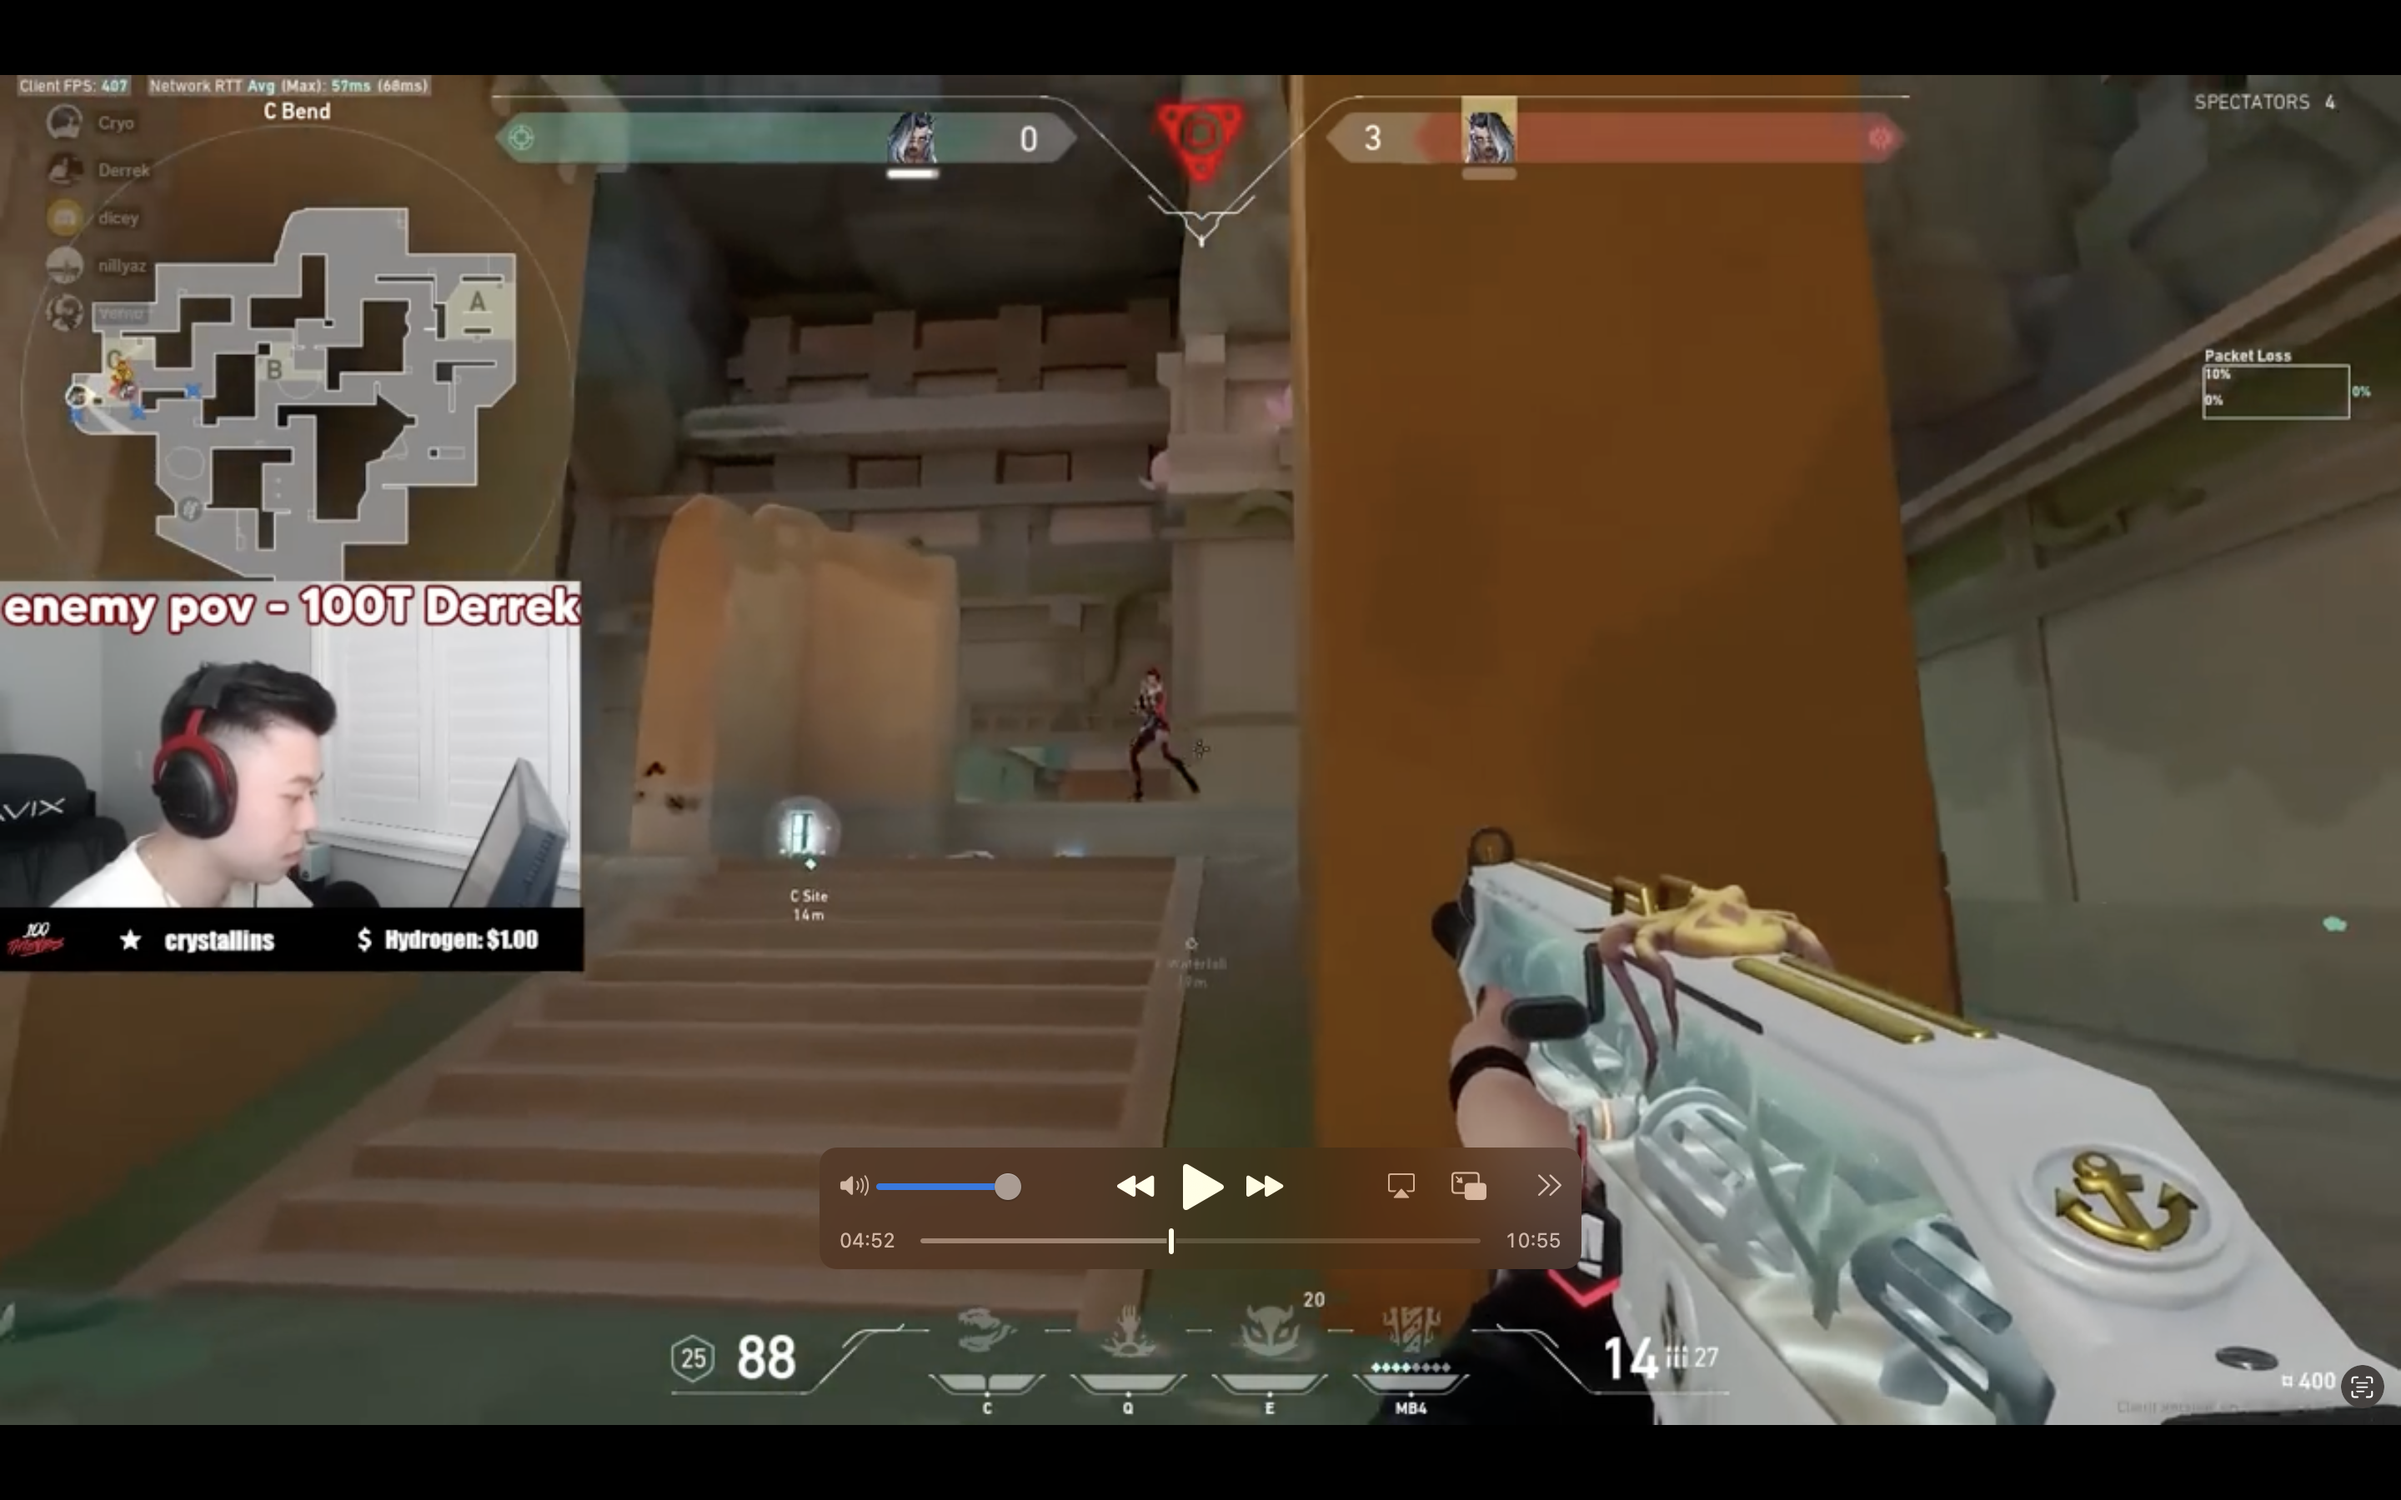
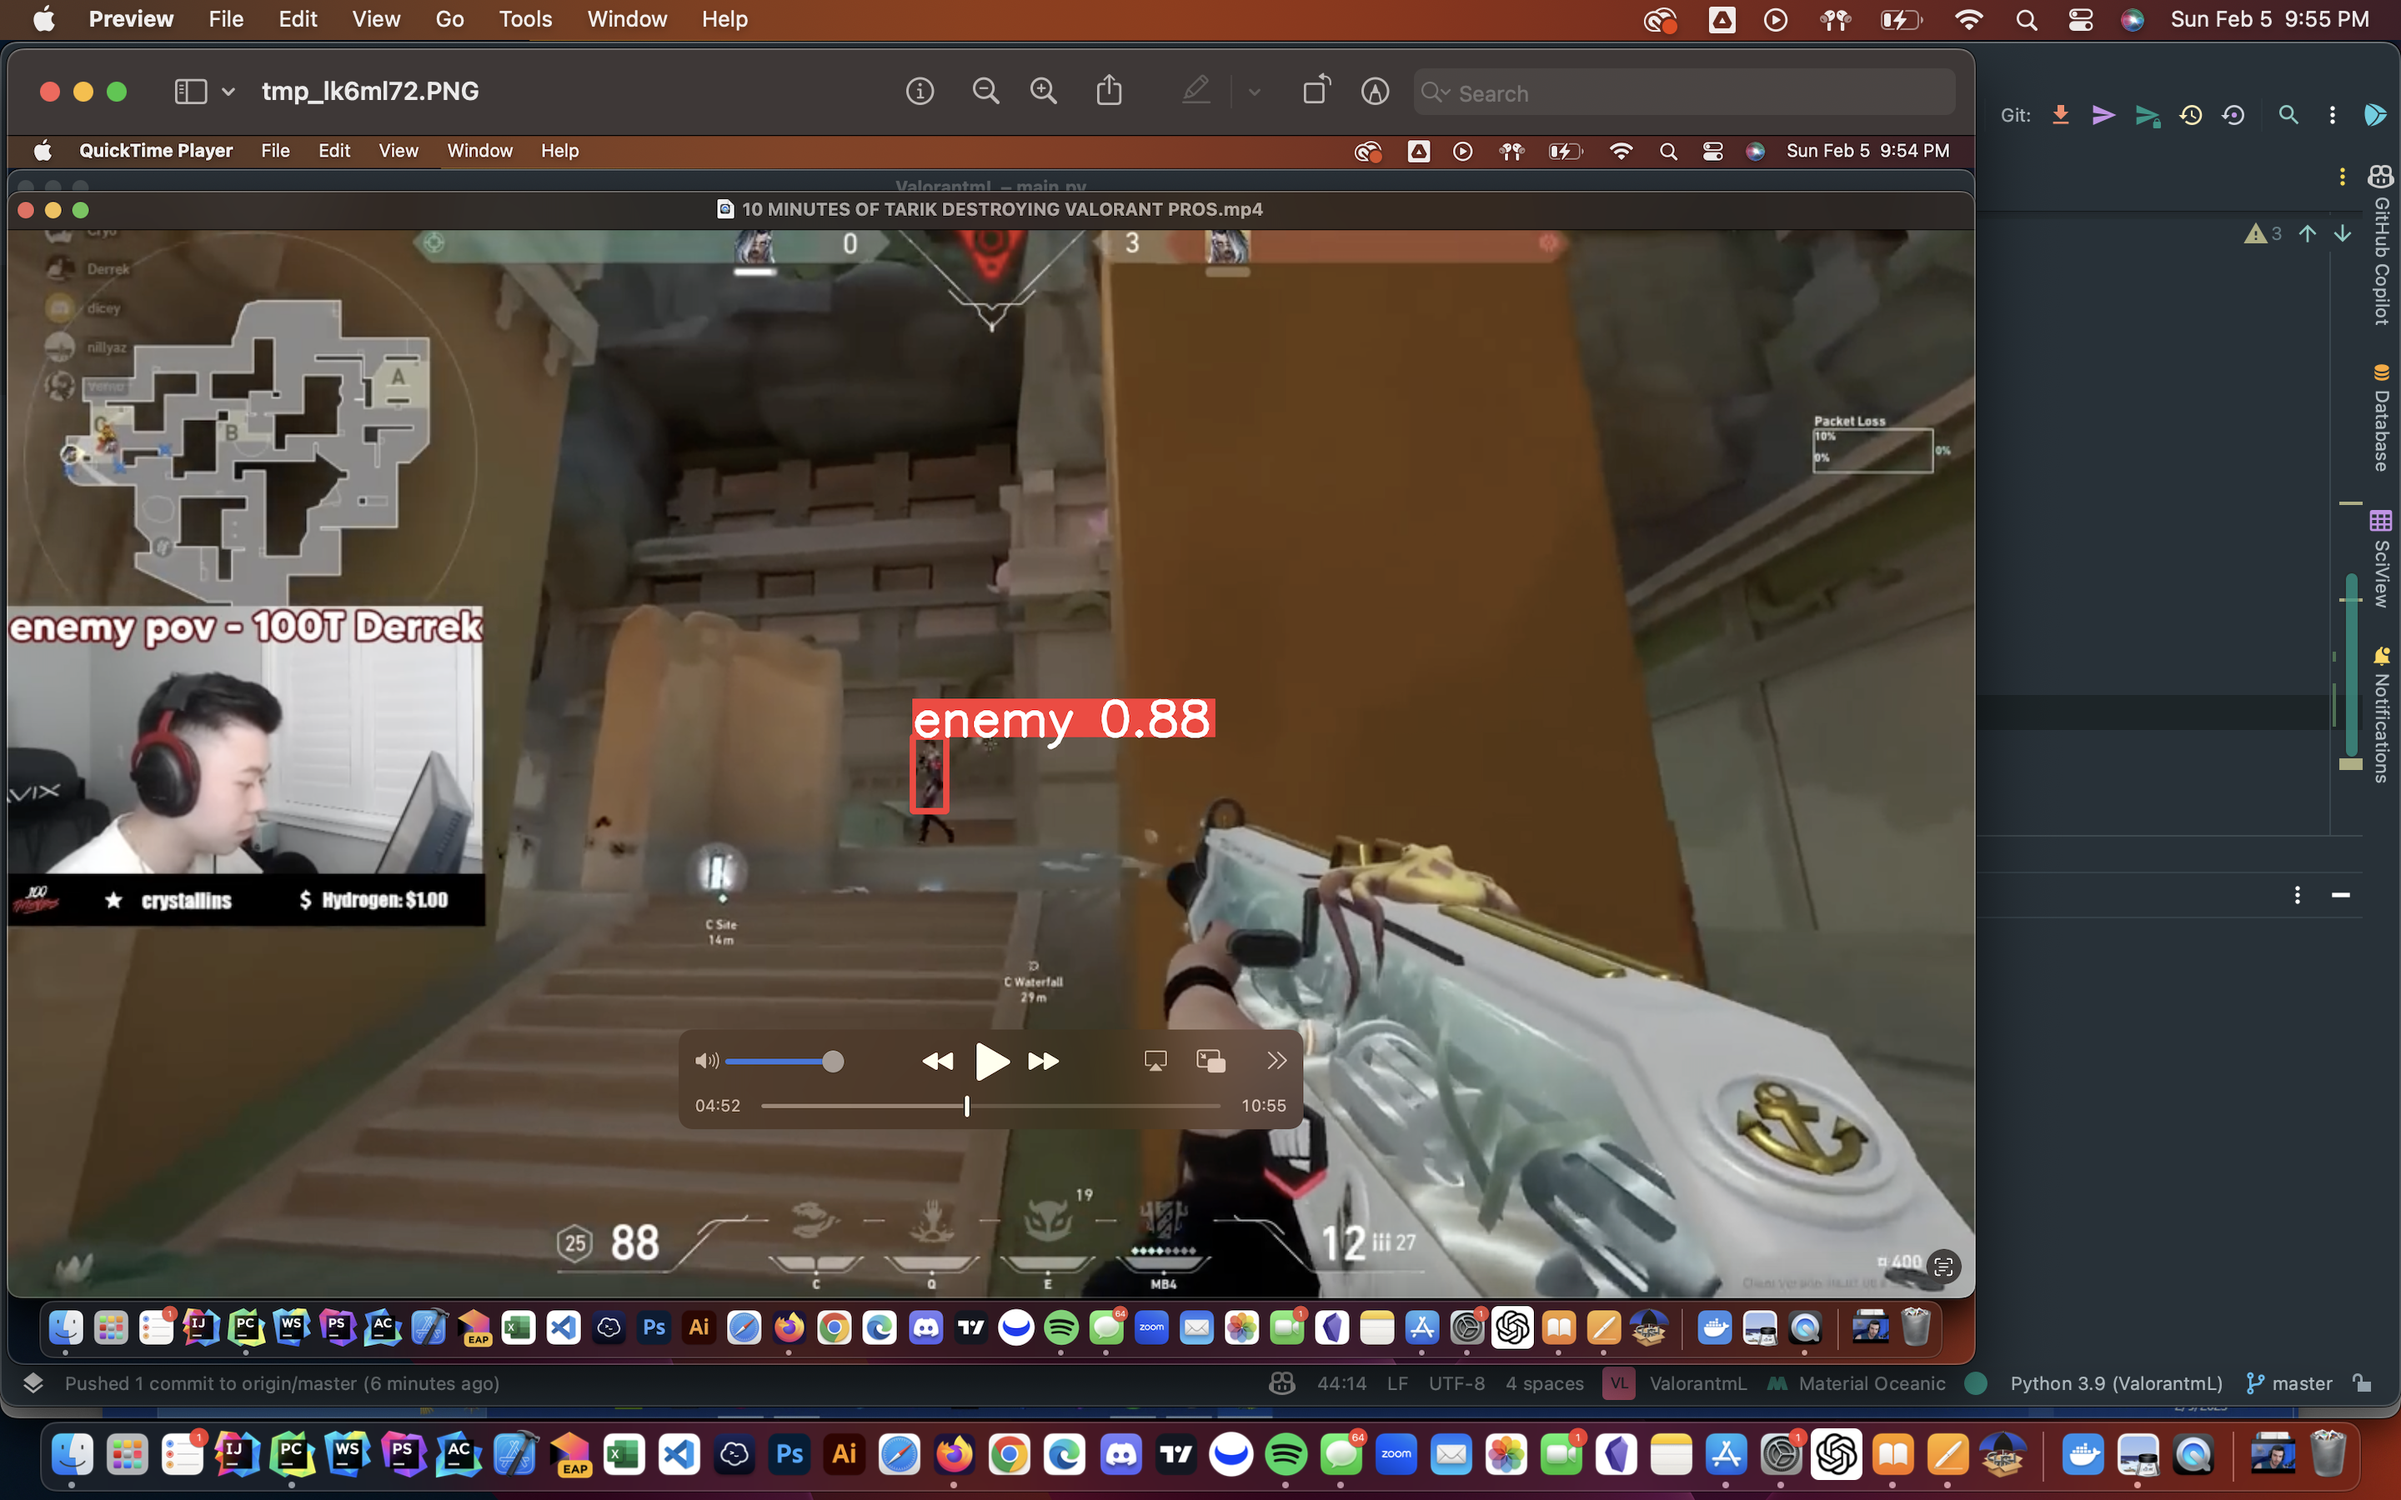
Swag

diff --git a/main.py b/main.py
@@ -35,7 +35,15 @@ scores = predictions[:, 4]
 categories = predictions[:, 5]
 
 # Find the center of the box
+
 center = (boxes[:, 0] + boxes[:, 2]) // 2, (boxes[:, 1] + boxes[:, 3]) // 2
+
+center = int(center[0]), int(center[1])
+
+# Move the mouse to the center of the box
+
+
+
 
 
 

diff --git a/windows.py b/windows.py
@@ -37,7 +37,7 @@ center = (boxes[:, 0] + boxes[:, 2]) // 2, (boxes[:, 1] + boxes[:, 3]) // 2
 
 # Move the mouse to the center of the box
 # Log the center of the box
-print(center)
+center = int(center[0]), int(center[1])
 mouse.move(center[0], center[1])
 
 
